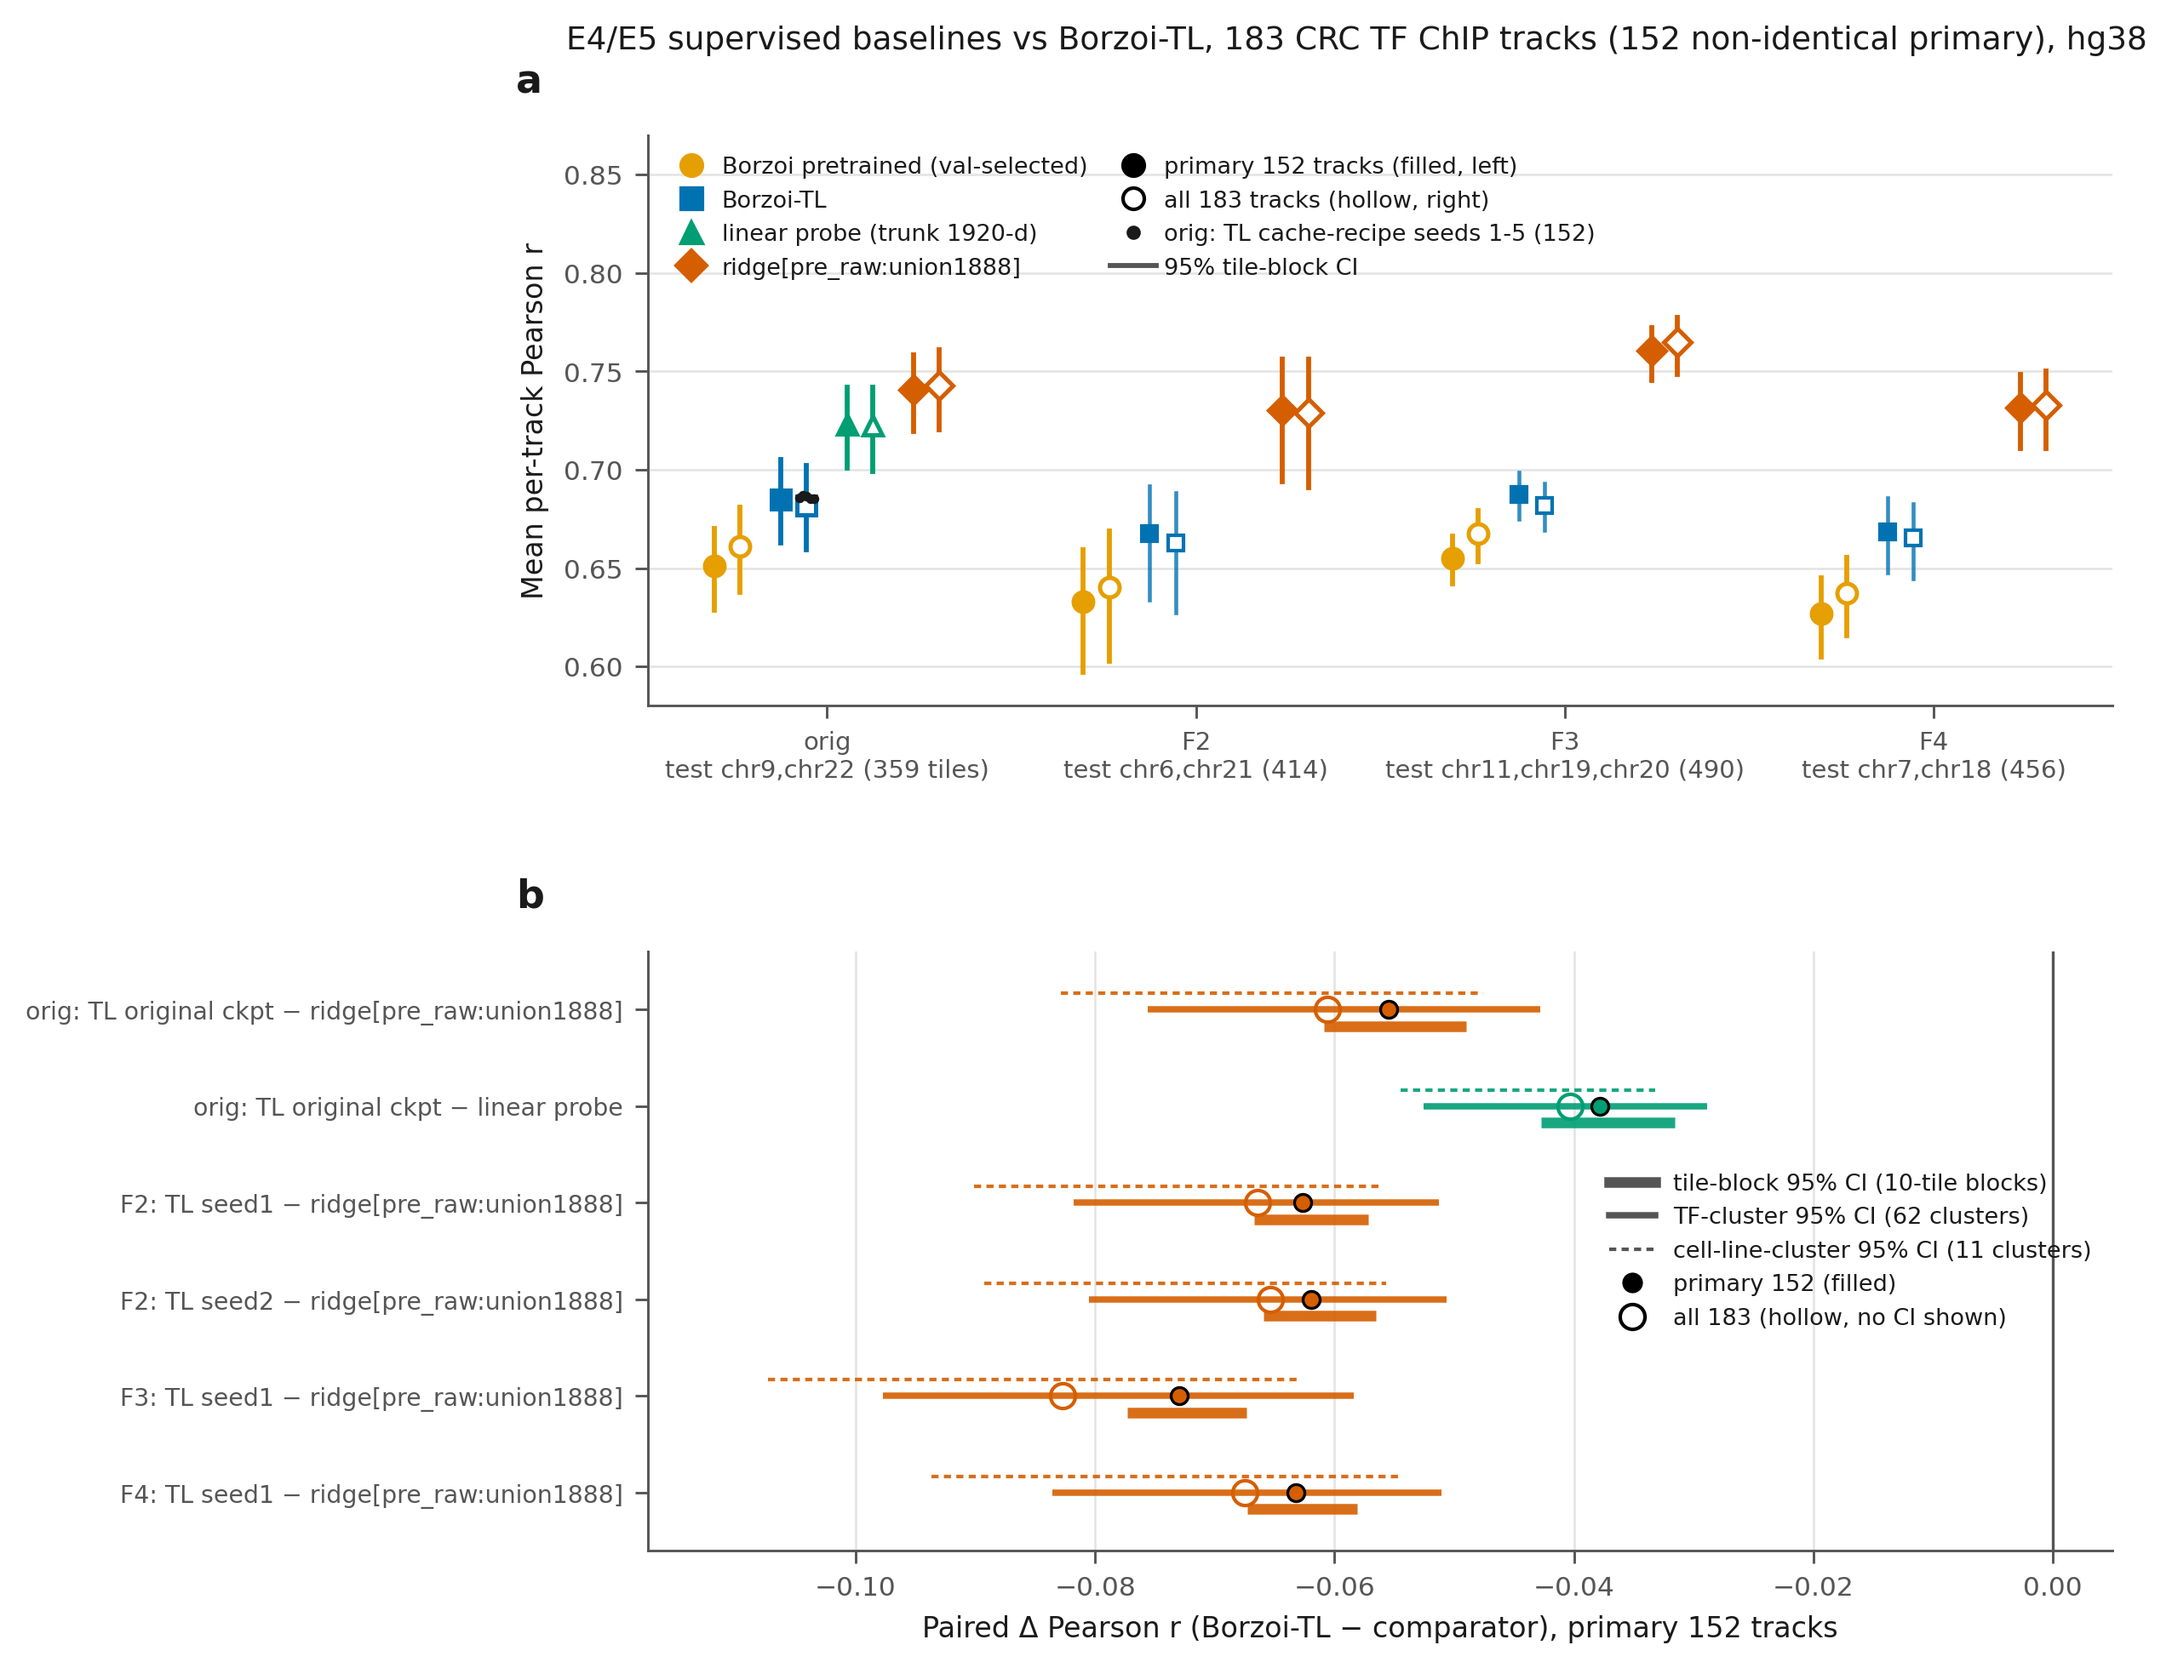
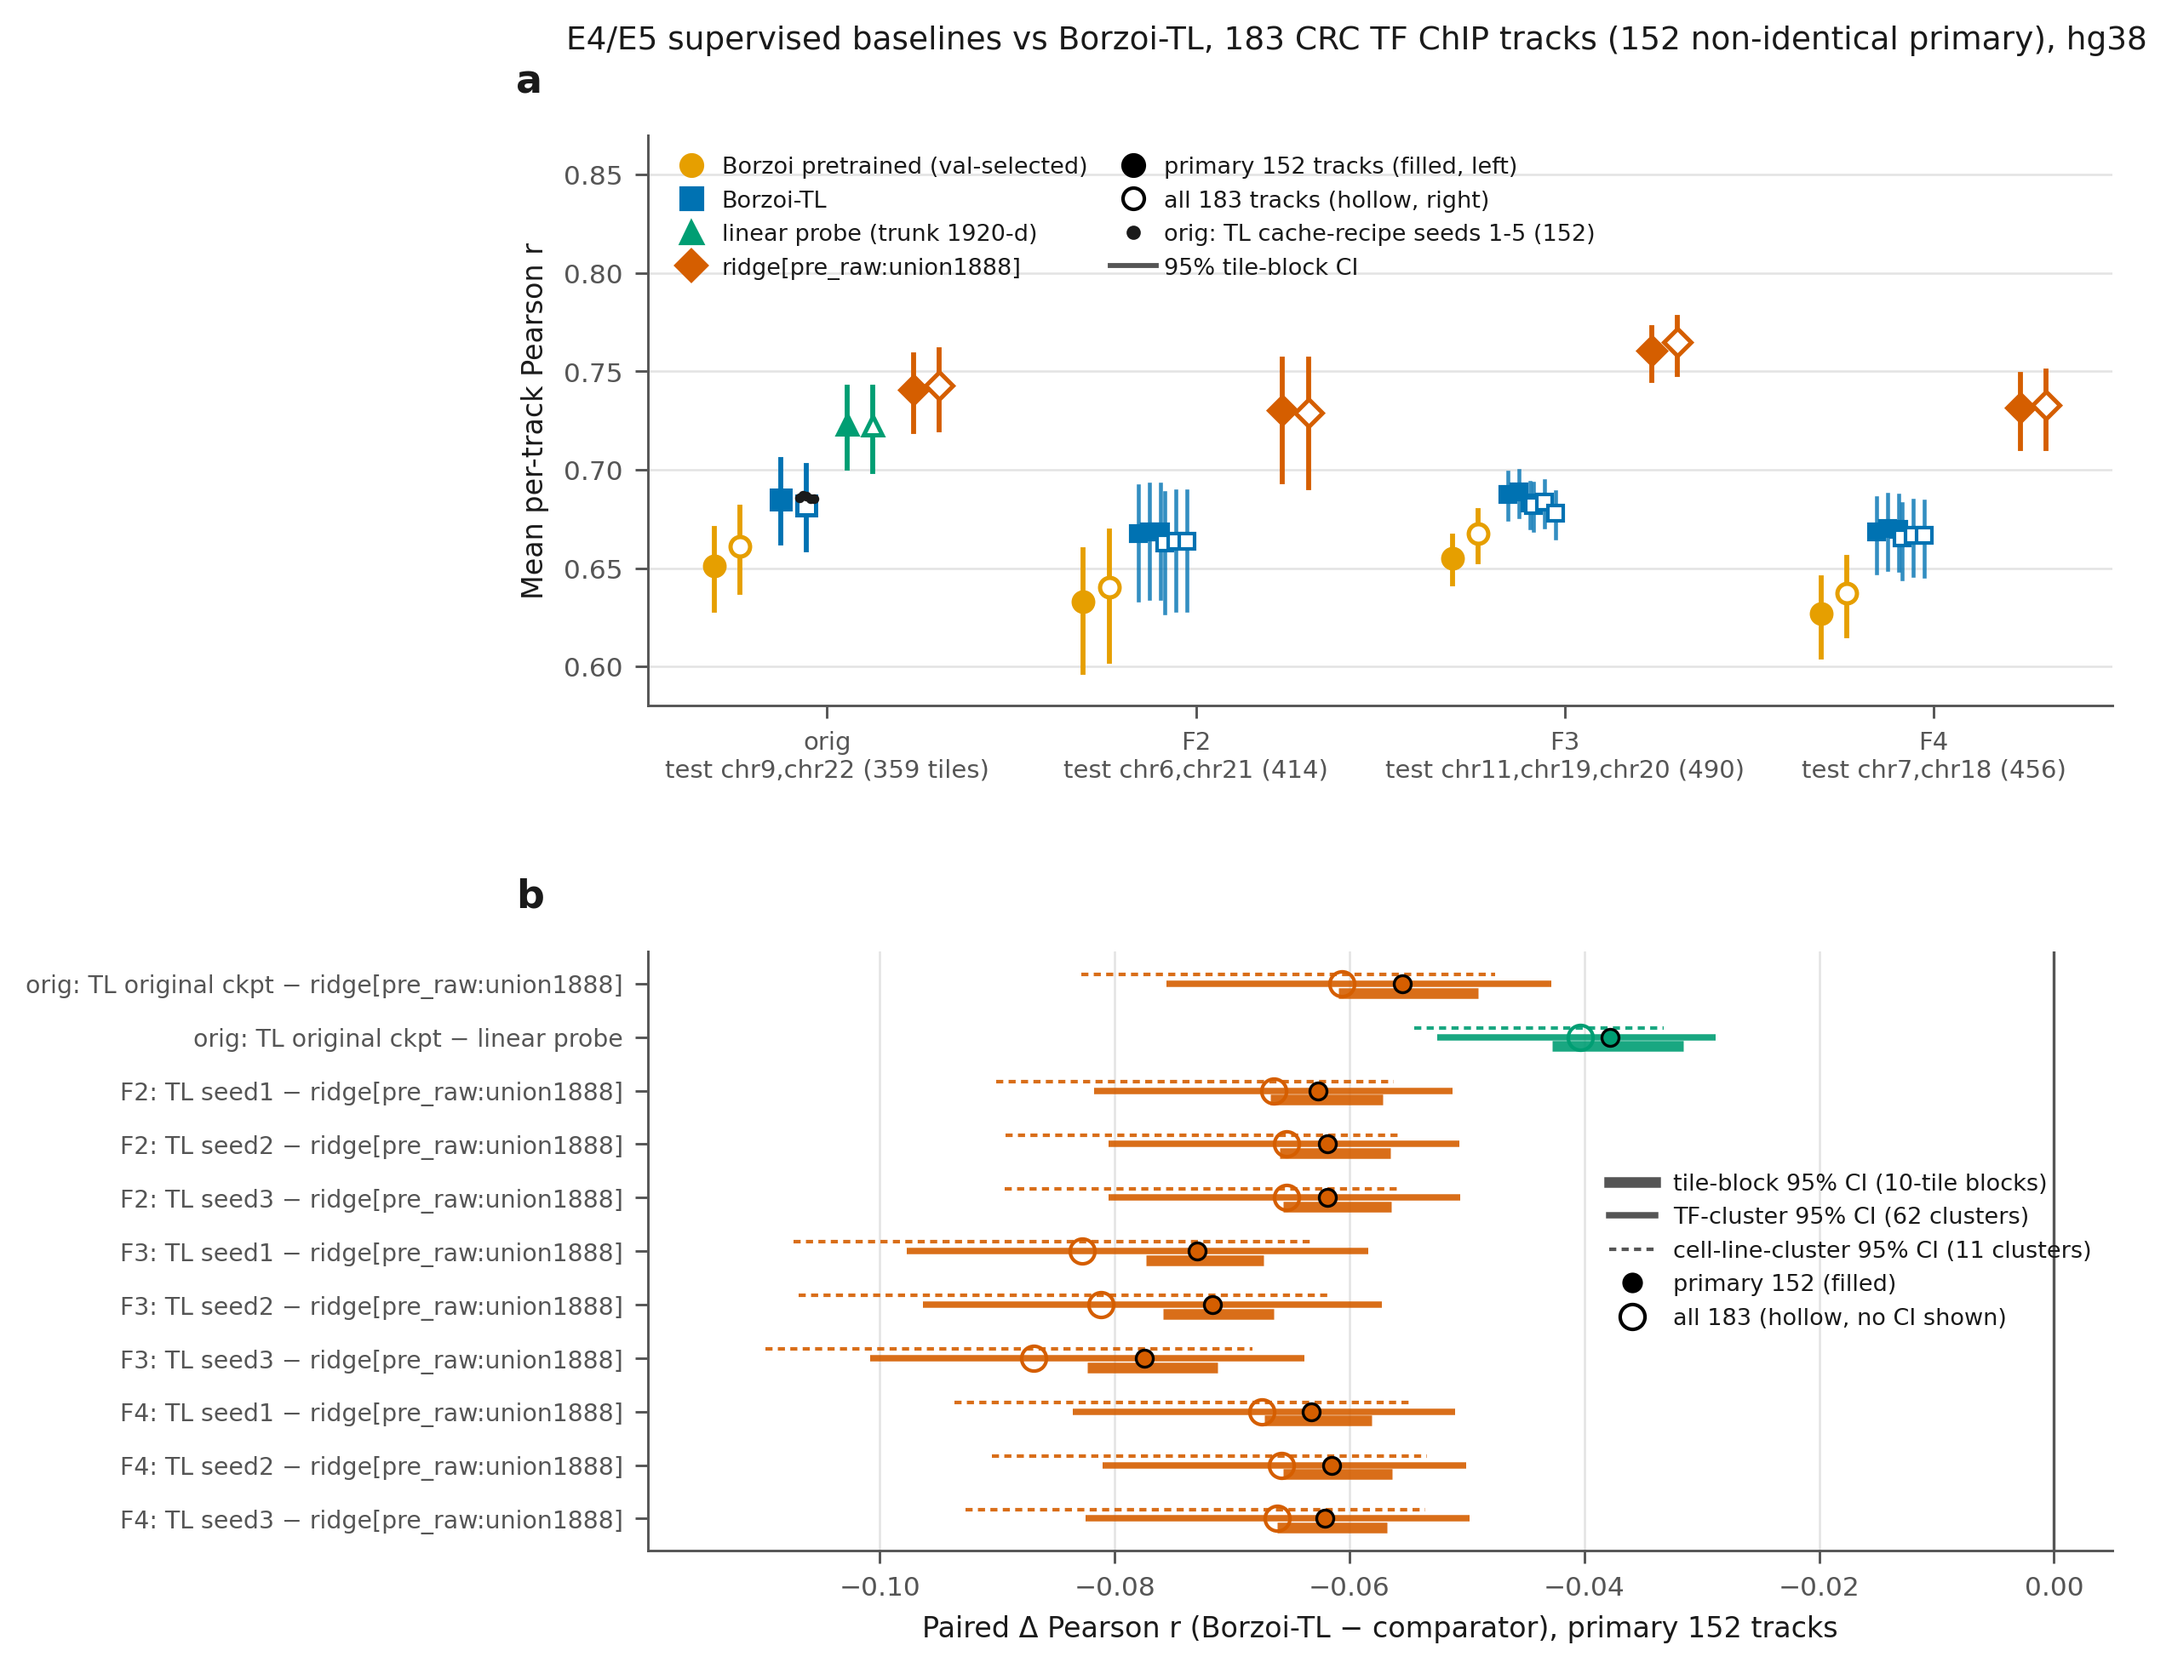
Fig 6 regenerated with all fold seeds; log queue completion

diff --git a/research_management/EXECUTION_LOG.md b/research_management/EXECUTION_LOG.md
@@ -49,3 +49,5 @@ Chronological log of sessions, commands run, and outcomes. Newest at the bottom.
   from the fp16 slim cache gives test r 0.68199 (= 0.6820); pretrained val-selected 0.6609 (= EXP-006). E4 (EXP-013): ridge on pretrained
   outputs pre_raw union1888 test r 0.7426 (λ=1e-4 from val), probe on frozen trunk 0.7223; TL − ridge −0.061 [−0.066, −0.053] (tile-block).
   Pre-registered SD-008 rule triggered: CRC-specific adaptation claim not supported beyond a supervised linear readout. E5 seeds running.
+- 2026-10-20 08:35 CDT · queue_downstream2.sh finished (all E4/E5/E8 + fold seeds 2–3). Final summaries: 9 fold×seed heads; TL − ridge
+  (152 primary) F2 −0.062/−0.062/−0.062, F3 −0.073/−0.072/−0.077, F4 −0.063/−0.062/−0.062 (tile-block CIs exclude 0). Fig 6 regenerated.
